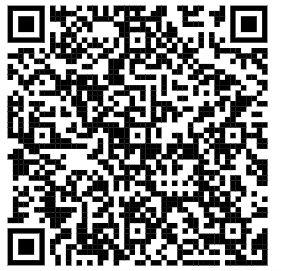
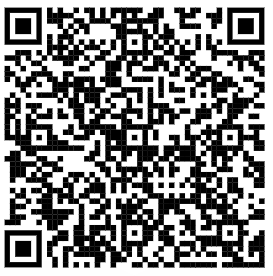
updated qr

diff --git a/README.md b/README.md
@@ -27,7 +27,7 @@ device.
 Option 2: Download `Sample_Knee_ROM_App.apk` and install file in your
 device.
 
-<img src="qr.png" width="281" />
+<img src="qr.png" width="273" />
 
 [^1]: Ockendon M, Gilbert RE. Validation of a novel smartphone
     accelerometer-based knee goniometer. J Knee Surg.
